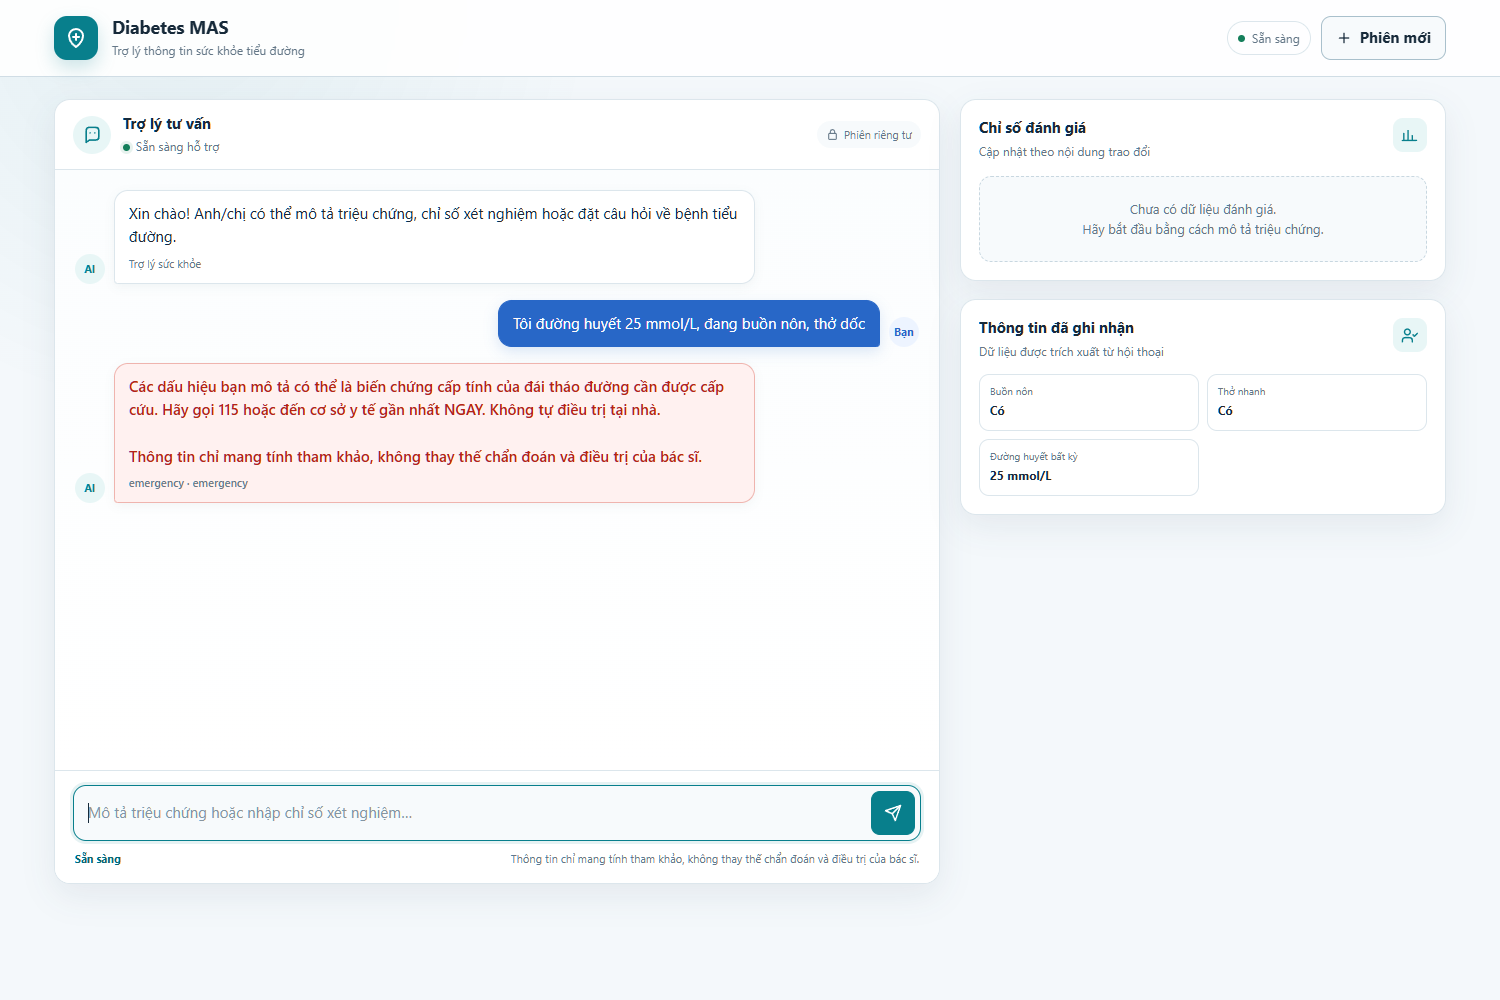
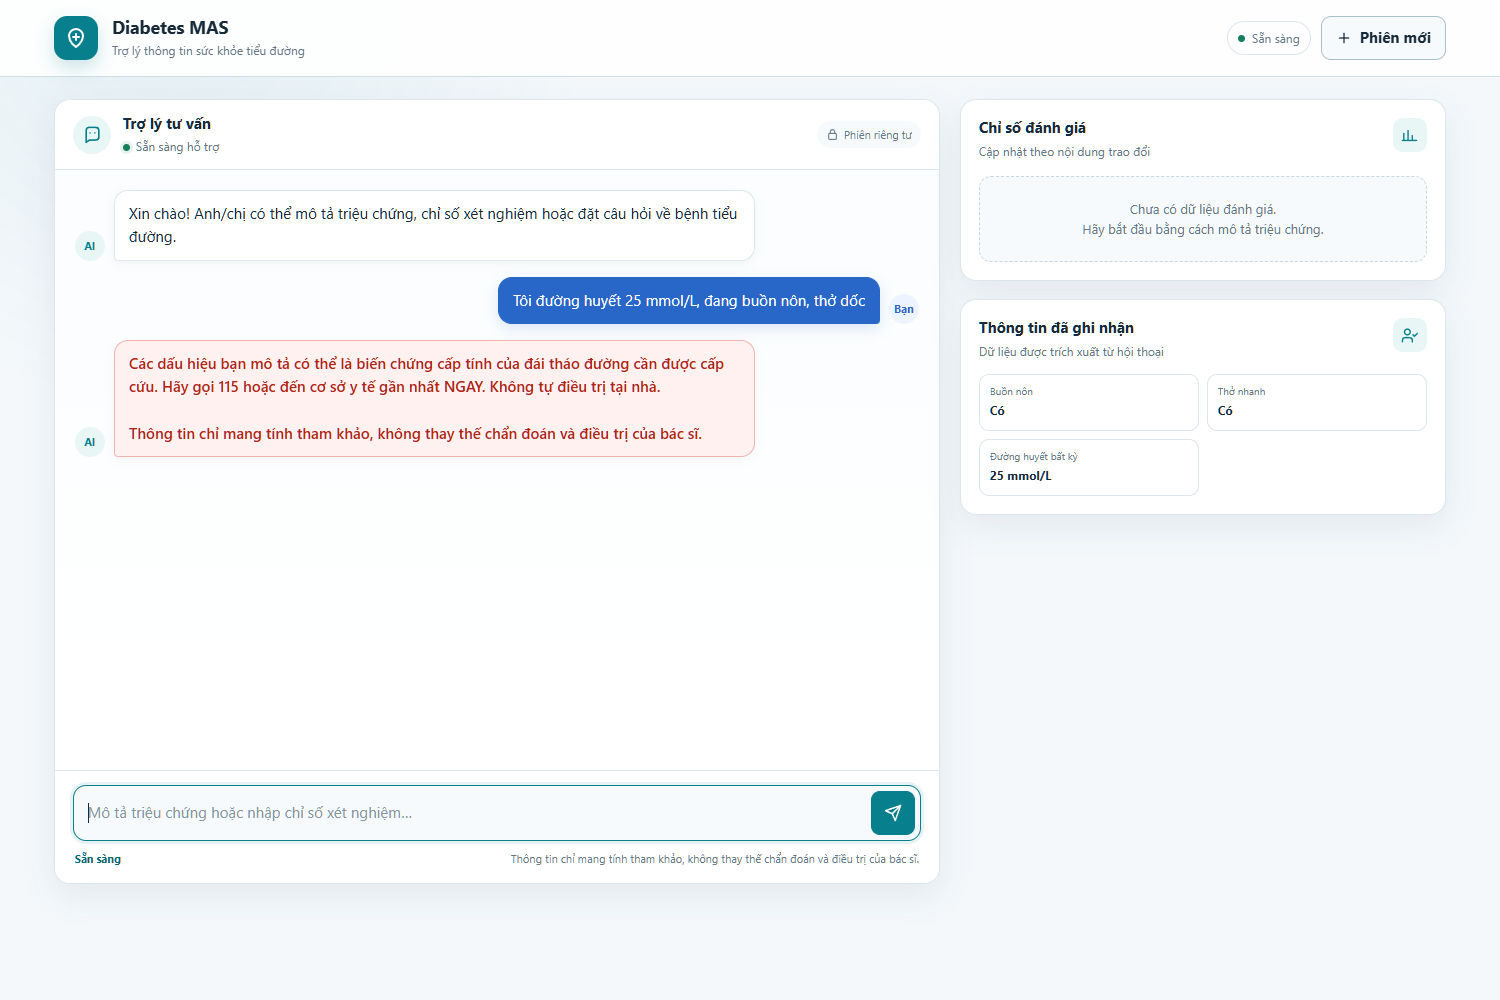
Web demo: ẩn nhãn intent · stage dưới tin trả lời (hiện khi nhấp tên); chụp lại ảnh

Changed region(s): [[0.092, 0.279, 0.6133, 0.496], [0.092, 0.248, 0.1227, 0.279]]

diff --git a/diabetes_mas/src/diabetes_mas/api/static/index.html b/diabetes_mas/src/diabetes_mas/api/static/index.html
@@ -218,6 +218,7 @@
   /* Bản trình diễn: phần kỹ thuật chỉ hiện khi nhấp "Diabetes MAS" (body.show-details) */
   body:not(.show-details) .detail-only { display:none !important; }
   body:not(.show-details) #kv .metric { grid-column:1/-1; }
+  body:not(.show-details) .msg .meta { display:none; }  /* nhãn "diagnose · asking" dưới mỗi tin */
   details { margin-top:14px; padding-top:13px; border-top:1px solid var(--line); }
   .sources-card details { margin-top:0; padding-top:0; border-top:0; }
   summary { color:#405564; font-size:12px; font-weight:650; cursor:pointer; }

diff --git a/docs/HANDOFF.md b/docs/HANDOFF.md
@@ -124,7 +124,7 @@ Môi trường:
 - **Giao diện trình diễn (22:30, sau đóng băng, người dùng yêu cầu trực tiếp, đã báo phiên quản lý; chỉ sửa `index.html`):**
   - Ẩn ô "Dùng LLM" (LLM luôn bật) và khung "Phân tích lượt vừa rồi".
   - **Nhấp "Diabetes MAS"** để hiện hoặc ẩn lại. `?llm=0` để tắt LLM, `?chitiet` để mở sẵn khung chi tiết.
-  - "Nguồn trích dẫn" tách thành khung riêng. Cập nhật 22:50: khung này cùng chỉ số Lượt hỏi / Entropy / Policy cũng được ẩn (class `detail-only`). Mặc định chỉ còn xác suất, Nguy cơ DL (nhãn đổi thành "Nguy cơ ước tính" lúc 23:10) và slot. Cập nhật 23:00: ô slot "Bệnh tự miễn khác" (`benh_tu_mien`, đôi khi hiện "unknown") cũng chỉ hiện ở chế độ chi tiết.
+  - "Nguồn trích dẫn" tách thành khung riêng. Cập nhật 22:50: khung này cùng chỉ số Lượt hỏi / Entropy / Policy cũng được ẩn (class `detail-only`). Mặc định chỉ còn xác suất, Nguy cơ DL (nhãn đổi thành "Nguy cơ ước tính" lúc 23:10) và slot. Cập nhật 23:00: ô slot "Bệnh tự miễn khác" (`benh_tu_mien`, đôi khi hiện "unknown") cũng chỉ hiện ở chế độ chi tiết. Cập nhật 23:20: nhãn intent · stage dưới mỗi tin (".msg .meta", ví dụ "diagnose · asking") cũng vậy.
   - Nhãn và lời chat đổi "ĐTĐ" thành "Đái tháo đường", "típ" thành "Loại"; panel nguồn giữ nguyên văn.
   - Kiểm tra trên Chrome: mọi mục OK, gồm cả request `use_llm=false` khi mở `?llm=0`. `test_web_ui` 2 passed.
   - Ảnh `demo_story1/_chitiet/tuvan/capcuu.png` chụp lại (09 §2.5).

diff --git a/docs/09_DEMO_SCRIPT.md b/docs/09_DEMO_SCRIPT.md
@@ -8,7 +8,7 @@
 >
 > **Giao diện trình diễn (22:30, theo yêu cầu người dùng):**
 > - Mặc định chỉ hiện: khung chat, xác suất 5 lớp, **Nguy cơ ước tính** (nguy cơ DL của AG-13, đổi tên lúc 23:10) và **Thông tin đã ghi nhận**. LLM luôn bật.
-> - Bị ẩn: ô "Dùng LLM", chỉ số **Lượt hỏi / Entropy / Policy**, khung **Nguồn trích dẫn**, ô slot "Bệnh tự miễn khác" và khung "Phân tích lượt vừa rồi" (luồng agent + bảng tool call). Cập nhật 22:50: ẩn thêm nguồn và ba chỉ số này. Cập nhật 23:00: ẩn thêm ô "Bệnh tự miễn khác", vì ô này đôi khi hiện giá trị thô "unknown".
+> - Bị ẩn: ô "Dùng LLM", chỉ số **Lượt hỏi / Entropy / Policy**, khung **Nguồn trích dẫn**, ô slot "Bệnh tự miễn khác", nhãn nhỏ dưới mỗi tin trả lời (ví dụ "diagnose · asking"; ẩn từ 23:20) và khung "Phân tích lượt vừa rồi" (luồng agent + bảng tool call). Cập nhật 22:50: ẩn thêm nguồn và ba chỉ số này. Cập nhật 23:00: ẩn thêm ô "Bệnh tự miễn khác", vì ô này đôi khi hiện giá trị thô "unknown".
 > - **Nhấp vào tên "Diabetes MAS"** ở góc trái trên để hiện lại tất cả; nhấp lần nữa để ẩn.
 > - Nhãn giao diện và lời chat hiển thị "Đái tháo đường Loại 2" thay cho "ĐTĐ típ 2". Panel nguồn giữ **nguyên văn** nguồn, nên vẫn ghi "típ".
 > - Backend, API và log không đổi.
